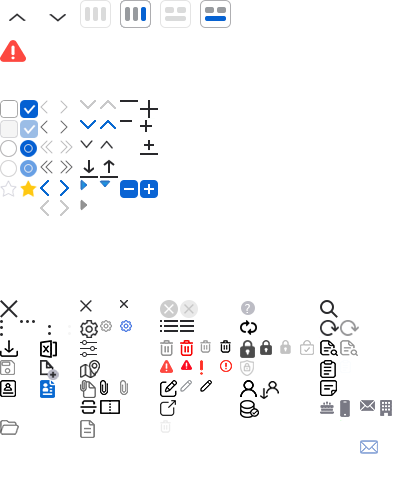
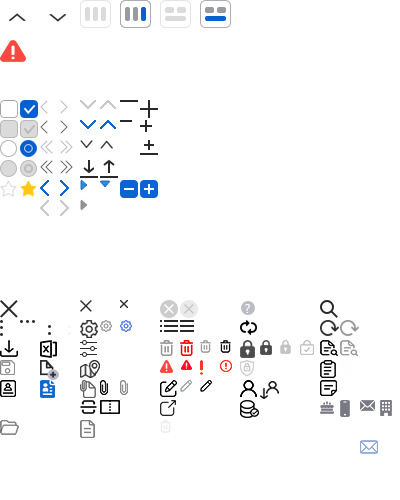
[공통] check/radio disabled 이미지 수정

Changed region(s): [[0.0, 0.24, 0.12, 0.36]]

diff --git a/view/styleGuide_epms.html b/view/styleGuide_epms.html
@@ -2113,6 +2113,43 @@
                                     </ul>
                                 </div>
 
+                                
+                            <div class="input">
+                                <div class="clip"><span>Radio</span></div>   
+                                <div class="">
+                                    <ul>
+                                        <li>
+                                            <span>default</span>
+                                            <input type="radio" id="bb" name="aaa" checked />
+                                            <label for="bb"></label>
+                                            <input type="radio" id="cc" name="aaa">
+                                            <label for="cc"></label>
+                                        </li>
+                                        <li>
+                                            <span>text</span>
+                                            <input type="radio" id="ff" name="aaaa" class="hasTxt" checked />
+                                            <label for="ff">Huey</label>
+                                            <input type="radio" id="gg" name="aaaa" class="hasTxt">
+                                            <label for="gg">Dewey</label>
+                                        </li>
+                                        <li>
+                                            <span>chk disabled</span>
+                                            <input type="radio" id="note1" name="mobile" checked="" disabled>
+                                            <label for="note1"></label>
+                                        </li>
+                                        <li>
+                                            <span>disabled</span>
+                                            <input type="radio" id="a13" name="aa" disabled>
+                                            <label for="a13"></label>
+                                        </li>
+                                        <li>
+                                            <span>text disabled</span>
+                                            <input type="radio" id="a12" name="aa" class="hasTxt" disabled>
+                                            <label for="a12">checkbox</label>
+                                        </li>
+                                    </ul>
+                                </div>
+
                                 <div class="clip"><span>bookmark</span></div> 
                                 <div class="">
                                     <ul>

diff --git a/assets/scss/_partial/_check.scss b/assets/scss/_partial/_check.scss
@@ -149,7 +149,7 @@ input[type=radio]{
                 background: $white;
                 position: absolute;
                 left: 4px;  
-                top: 3px;  
+                top: 4px;  
                 transform: translateX(0);
                 transition: all .3s ease ;
                 z-index: 1;
